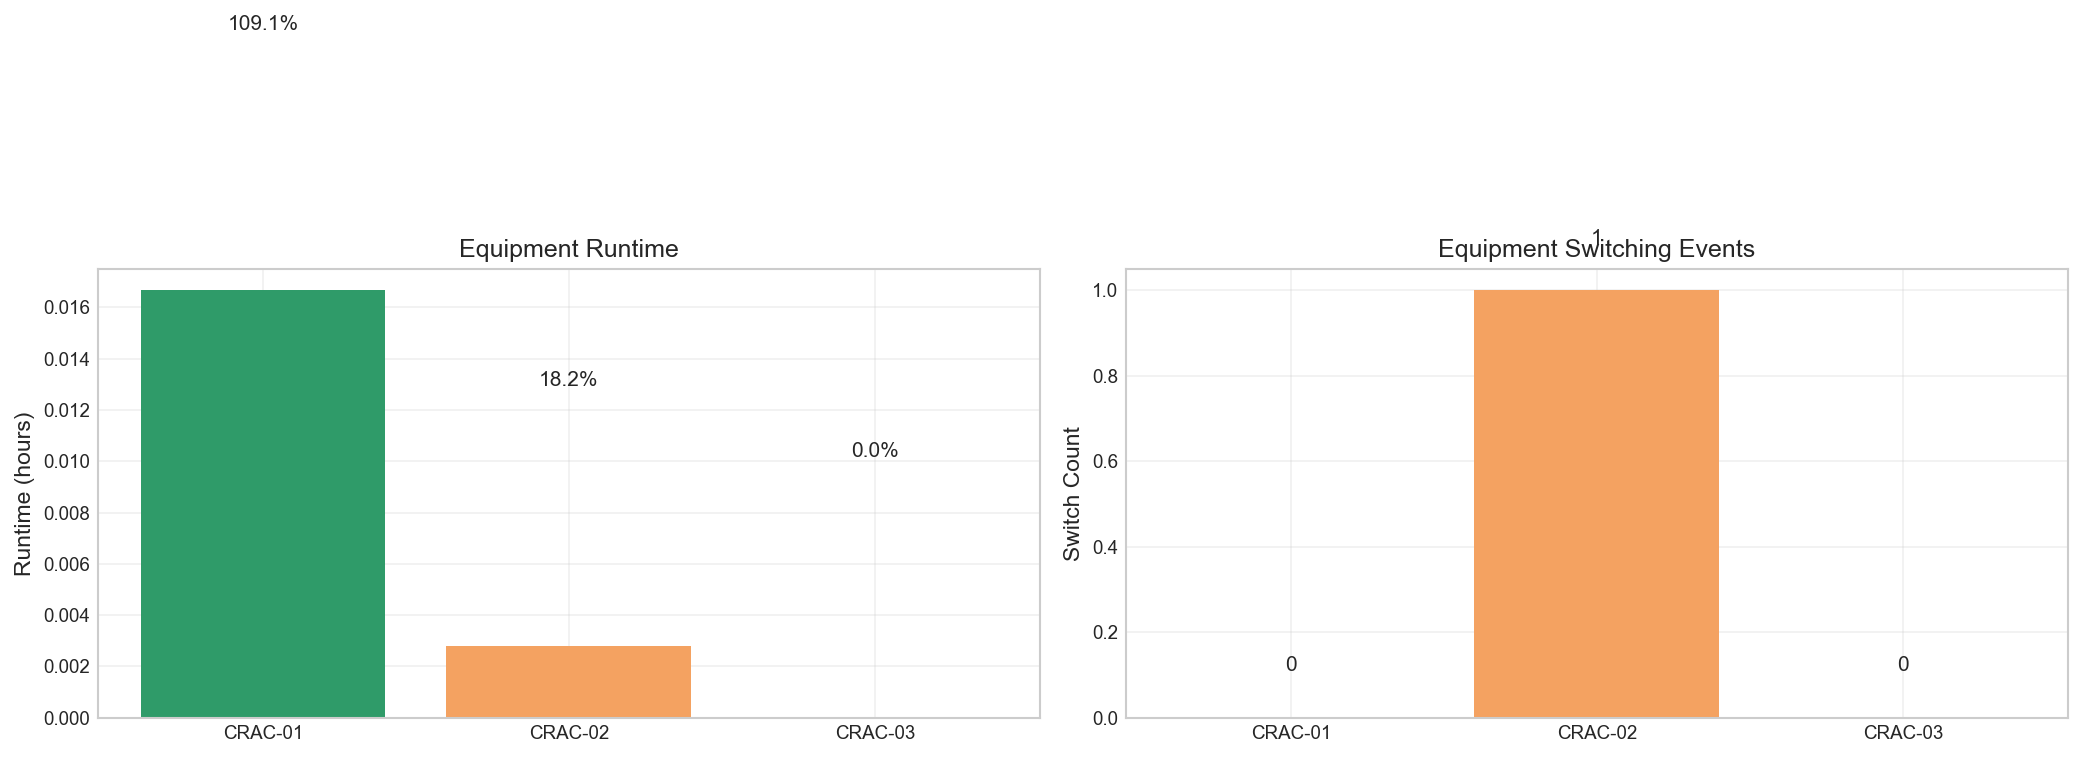
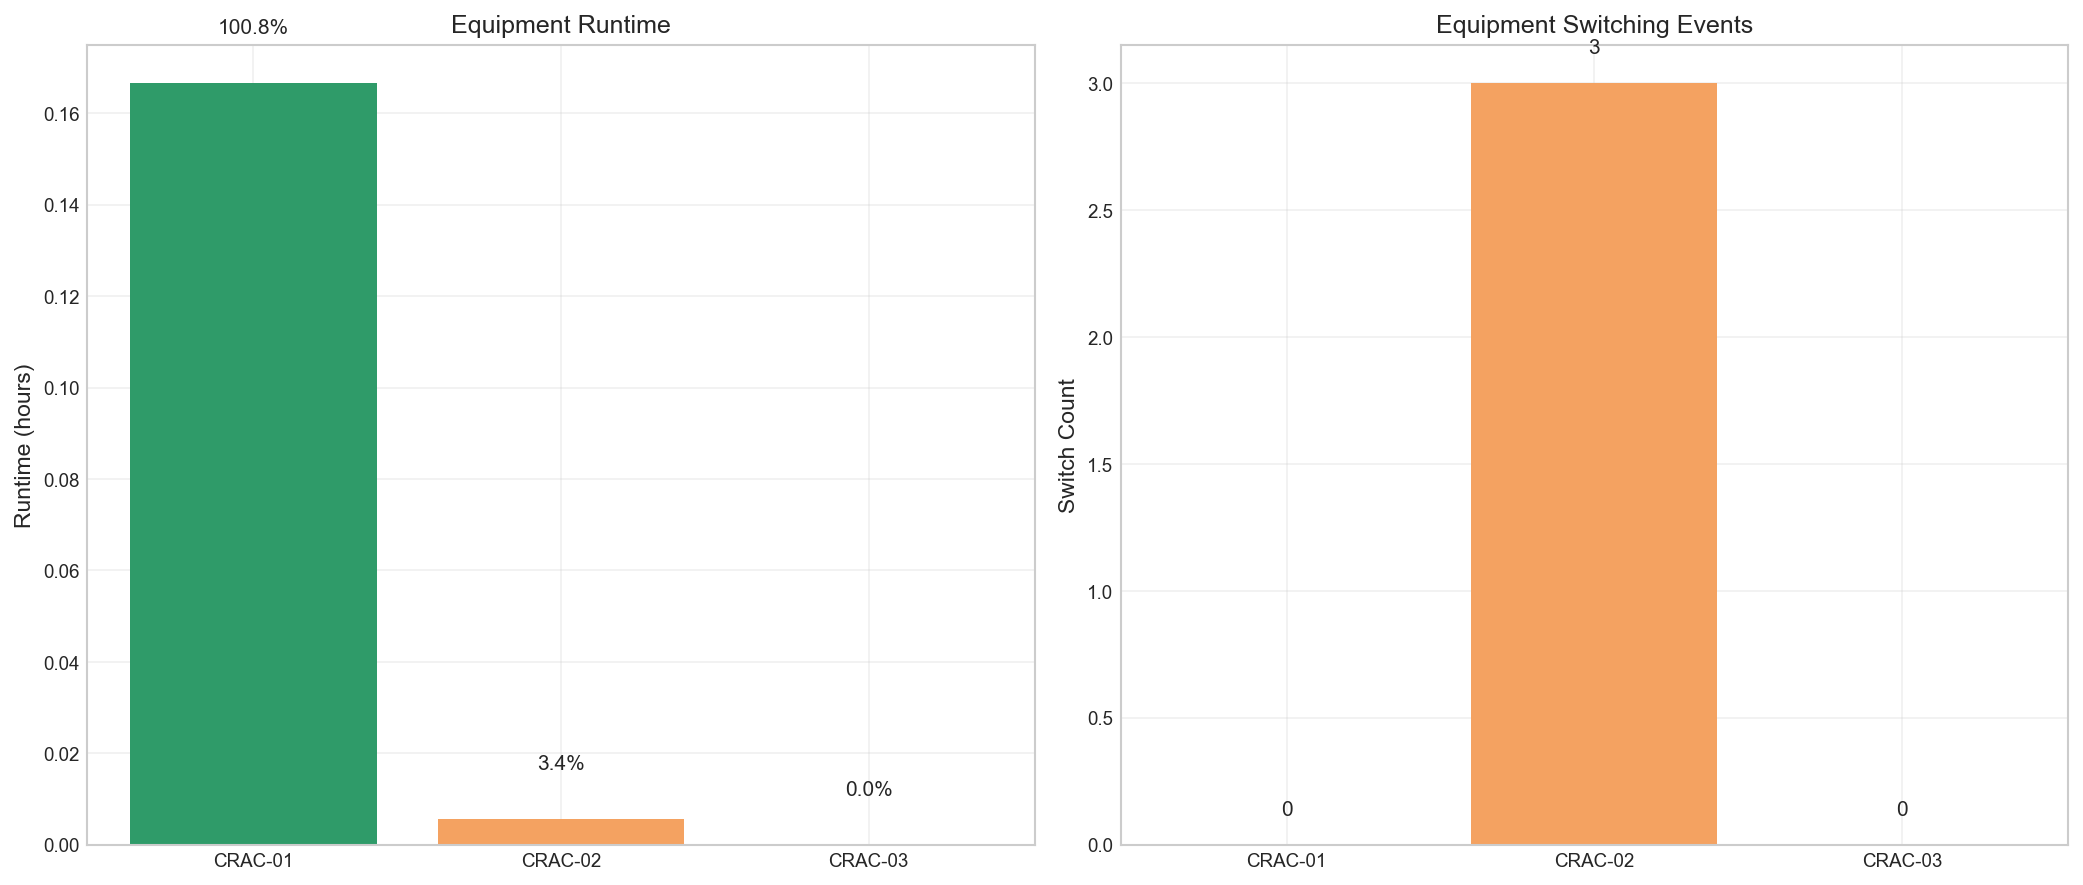
feat: complete professional P/I/D analysis with individual term visualization
- Added individual P, I, D term plotting in PID performance analysis
- Enhanced control system visualization with professional BAS styling
- Generated comprehensive performance dashboard with updated KPIs
- Demonstrates authentic BAS engineering expertise for employers

diff --git a/reports/professional_pid_summary.md b/reports/professional_pid_summary.md
@@ -1,0 +1,35 @@
+# Professional_Pid Performance Analysis
+
+## 📈 System Performance Dashboard
+
+| Temperature Control | Equipment Runtime | Energy Performance | System Overview |
+|-------|-------|-------|-------|
+| ![PID](reports/pid_performance.png) | ![Runtime](reports/equipment_runtime.png) | ![Energy](reports/energy_performance.png) | ![Overview](reports/system_overview.png) |
+
+## 🎯 Key Performance Indicators
+
+### Temperature Control
+- **Setpoint**: 22.0°C (71.6°F)
+- **Average Temperature**: 22.0°C (71.6°F)
+- **Control Accuracy**: 95.8% within ±0.5°C
+- **Standard Deviation**: 0.296°C
+- **Maximum Error**: 0.558°C
+
+### Equipment Performance
+- **CRAC-1**: 0.17 hrs (100.8%) — 0 switches
+- **CRAC-2**: 0.01 hrs (3.4%) — 3 switches
+- **CRAC-3**: 0.00 hrs (0.0%) — 0 switches
+
+### Energy Efficiency
+- **Average Power**: 8.3 kW
+- **Average Cooling**: 26.2 kW
+- **System COP**: 3.24
+- **Total Energy**: 4.36 kWh
+
+### Control System
+- **Simulation Duration**: 00:09:55
+- **Controller Saturation**: 0.0% of time
+- **Data Points**: 120 samples
+
+---
+*Analysis generated by BAS Professional Analysis Tool*
